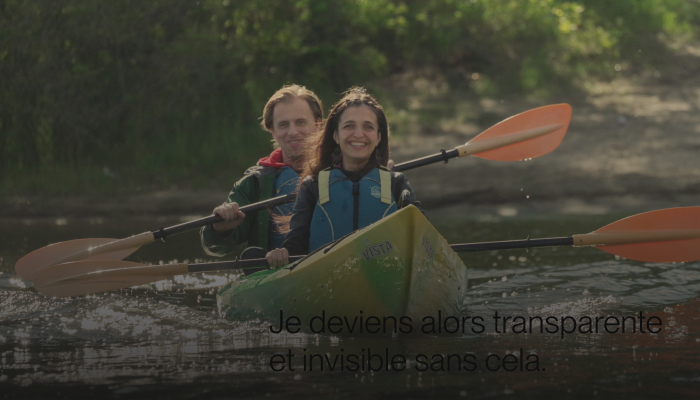
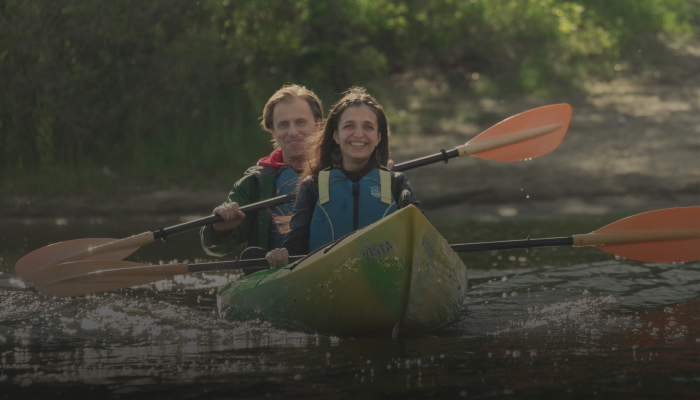
Update: creation of Overlay component

diff --git a/src/App.jsx b/src/App.jsx
@@ -9,44 +9,42 @@ import { easing , geometry} from 'maath'
 import Statue from './Statue';
 import TextCard from './TextCard.jsx';
 import Spiral from './Spiral.jsx';
+import Overlay from './Overlay.jsx'; // Make sure to adjust the path based on your project structure
 
 function App() {
+  const [isOverlayVisible, setOverlayVisible] = useState(true);
+
+  const handleExploreClick = () => {
+    console.log('clicked');
+    setOverlayVisible(false);
+  };
 
   return (
-    <div className="canvas-container">
+    <div className="app">
+      <Overlay isVisible={isOverlayVisible} handleExploreClick={handleExploreClick} />
 
-    <div className="hud-cust" id="hudcust" >
+      <div className="canvas-container">
 
-      <div className="hud-title">Samira's journey</div>
-      <div className="hud-why">Why ?</div>
-      <div className="hud-langs"></div>
-      <div className="explore-block">
-        <p>Lorem ipsum dolor sit amet consectetur adipisicing elit. Magnam minima exercitationem, sunt ad odit suscipit cum commodi earum dolore, libero esse autem corrupti quidem accusantium. Sit eius voluptates pariatur aut!</p>
-        <div className="explore-btn">EXPLORE</div>
+        <Canvas camera={{ position: [0, 2, 40], rotation:[15,0,0], fov: 15 }}>
+
+          <ambientLight intensity={1} />
+          <spotLight position={[10, 10, 10]} angle={0.45} penumbra={1} decay={0} intensity={2} />
+          <pointLight position={[-10, -10, -10]} decay={1} intensity={1} />
+          <ScrollControls pages={12}  >
+            <Rig rotation={[0, Math.PI, 0]}>
+              {/*<Spiral rotation={[0, Math.PI  , 0] }position={[0, 0, 0]} scale={[0.055, 0.055, 0.055]} scrollY={scrollY}  />*/}
+              <Cards />
+            </Rig>
+            <Axis rotation={[0, 0, 0]}>
+              <Statue position={[0,-0.7,0]} />
+            </Axis>
+            {/* <gridHelper args={[10, 10]} /> */}
+          </ScrollControls>
+          
+          {/* <OrbitControls />  */}
+        </Canvas>
       </div>
-
     </div>
-
-      <Canvas camera={{ position: [0, 2, 40], rotation:[15,0,0], fov: 15 }}>
-
-        <ambientLight intensity={1} />
-        <spotLight position={[10, 10, 10]} angle={0.45} penumbra={1} decay={0} intensity={2} />
-        <pointLight position={[-10, -10, -10]} decay={1} intensity={1} />
-        <ScrollControls pages={12}  >
-          <Rig rotation={[0, Math.PI, 0]}>
-            {/*<Spiral rotation={[0, Math.PI  , 0] }position={[0, 0, 0]} scale={[0.055, 0.055, 0.055]} scrollY={scrollY}  />*/}
-            <Cards />
-          </Rig>
-          <Axis rotation={[0, 0, 0]}>
-            <Statue position={[0,-0.7,0]} />
-          </Axis>
-          {/* <gridHelper args={[10, 10]} /> */}
-        </ScrollControls>
-        
-         {/* <OrbitControls />  */}
-      </Canvas>
-    </div>
-
     
 
   );
@@ -54,6 +52,7 @@ function App() {
 
 export default App;
 
+// Rig is the parent of the cards component that makes them turn
 function Rig(props) {
   const ref = useRef()
   const scroll = useScroll()
@@ -64,6 +63,8 @@ function Rig(props) {
   })
   return <group ref={ref} {...props} />
 }
+
+// Statue is the main object
 function Axis(props) {
   const ref = useRef()
   const scroll = useScroll()
@@ -79,9 +80,8 @@ function Axis(props) {
 function Cards() {
   let sense = -1; // 1 or -1 to set x value
   let senseZ = 1; // 1 or -1 tp set z value
-  let loopPoint = 1;// 
+  let loopPoint = 1; // 
   let pic_between_text_gap = 0.15;
-
   const numberOfCards = 29;
   var objPerTurn = 2;
   let lastPosition = 0;
@@ -115,12 +115,10 @@ function Cards() {
     }
     position.y = -(i * step + 1) + 2.5// y is always negative (decreasing)
     position.yText = -(i * step + 1) + 2.5
-    // console.log("position: " + i, position);
     return position;
   };
 
   return Array.from({ length: numberOfCards  , sense, senseZ }, (_, i) => {
-    console.log('i: ', i)
     if(loopPoint == 1){ sense *= -1; }else if (loopPoint == -1){ senseZ *= -1; }
     // We switch loopPoint to adjust the axis we are based on(x or z axis)
     loopPoint *= -1;
@@ -128,11 +126,6 @@ function Cards() {
     // 
     const position = cardPosition(i, lastPosition, sense, senseZ); // Call the function to get the position
     lastPosition = position.y;
-    if (i % 2 === 0 ){
-      // console.log('Position Image Card: ', position)
-    } else {
-      console.log('Position Text Card: ', position)
-    }
   
     const cardUrl = `/img${i + 1}_.png`;
     const textUrl = `/img${i + 1}_txt.png`;

diff --git a/src/index.css b/src/index.css
@@ -90,14 +90,18 @@ body {
   transition: width 0.5s ease;
 }
 
-.hud-cust{
+.hud-cust.visible{
   width: 100vw;
   height: 100vh;
   position: fixed;
   color: black;
   font-weight: 700;
   z-index: 2;
-  pointer-events: none;
+
+}
+/* Apply the 'hidden' class to hide the overlay */
+.hud-cust.hidden {
+  height: 0;
 }
 
 .hud-title{
@@ -117,18 +121,32 @@ body {
 }
 
 .explore-block{
-  position: absolute;
+  position: fixed;
   bottom: 40px;
   left: 40px;
   font-family: "BasicLight";
   font-weight: 400;
   max-width: 30%;
   font-size:16px;
+  transition: opacity 0.5s ease; /* Add a transition for a smoother effect */
+
+}
+/* Apply the 'visible' class to show the overlay */
+.explore-block.visible {
+  opacity: 1;
+  pointer-events: auto; /* Allow interaction with the overlay */
+}
+
+/* Apply the 'hidden' class to hide the overlay */
+.explore-block.hidden {
+  opacity: 0;
+  pointer-events: none; /* Disable interaction with the overlay */
 }
 
 .explore-block p{
   font-family: "PPNeue-Light";
   font-weight: 400;
+
 }
 
 .explore-btn{
@@ -138,4 +156,5 @@ body {
   color: black;
   border-bottom: 1px solid black;
   width: fit-content;
+  cursor: pointer;
 }

diff --git a/src/Overlay.jsx b/src/Overlay.jsx
@@ -1,0 +1,20 @@
+import React from 'react';
+
+const OverlayComponent = ({ isVisible, handleExploreClick }) => {
+return (
+    console.log('overlay is visible', isVisible),
+    <div className={`hud-cust ${isVisible ? 'visible' : 'hidden'}`} id="hudcust">
+        <div className="hud-title">Samira's journey</div>
+        <div className="hud-why">Why ?</div>
+        <div className="hud-langs"></div>
+        <div className={`explore-block ${isVisible ? 'visible' : 'hidden'}`} id='exploreBlock'>
+            <p>Lorem ipsum dolor sit amet consectetur adipisicing elit. Magnam minima exercitationem, sunt ad odit suscipit cum commodi earum dolore, libero esse autem corrupti quidem accusantium. Sit eius voluptates pariatur aut!</p>
+            <div className="explore-btn" onClick={handleExploreClick}>
+                EXPLORE
+            </div>
+        </div>
+    </div>
+);
+};
+
+export default OverlayComponent;

diff --git a/src/App.css b/src/App.css
@@ -8,9 +8,11 @@
       opacity: 1;
     }
   }
-  
-  
-  .canvas-container {
+  .app{
+    width: 100%;
+    height: 100%;
+  }
+    .canvas-container {
     position: relative;
     top: 0;
     left: 0;
